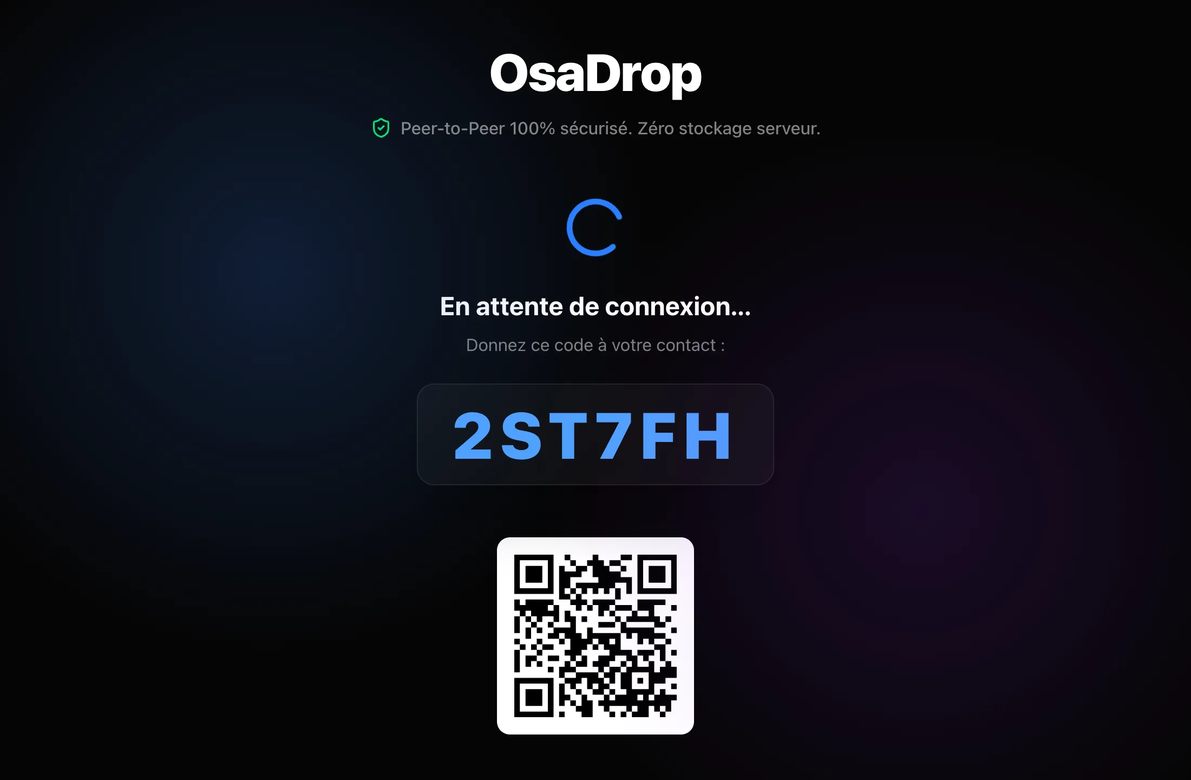
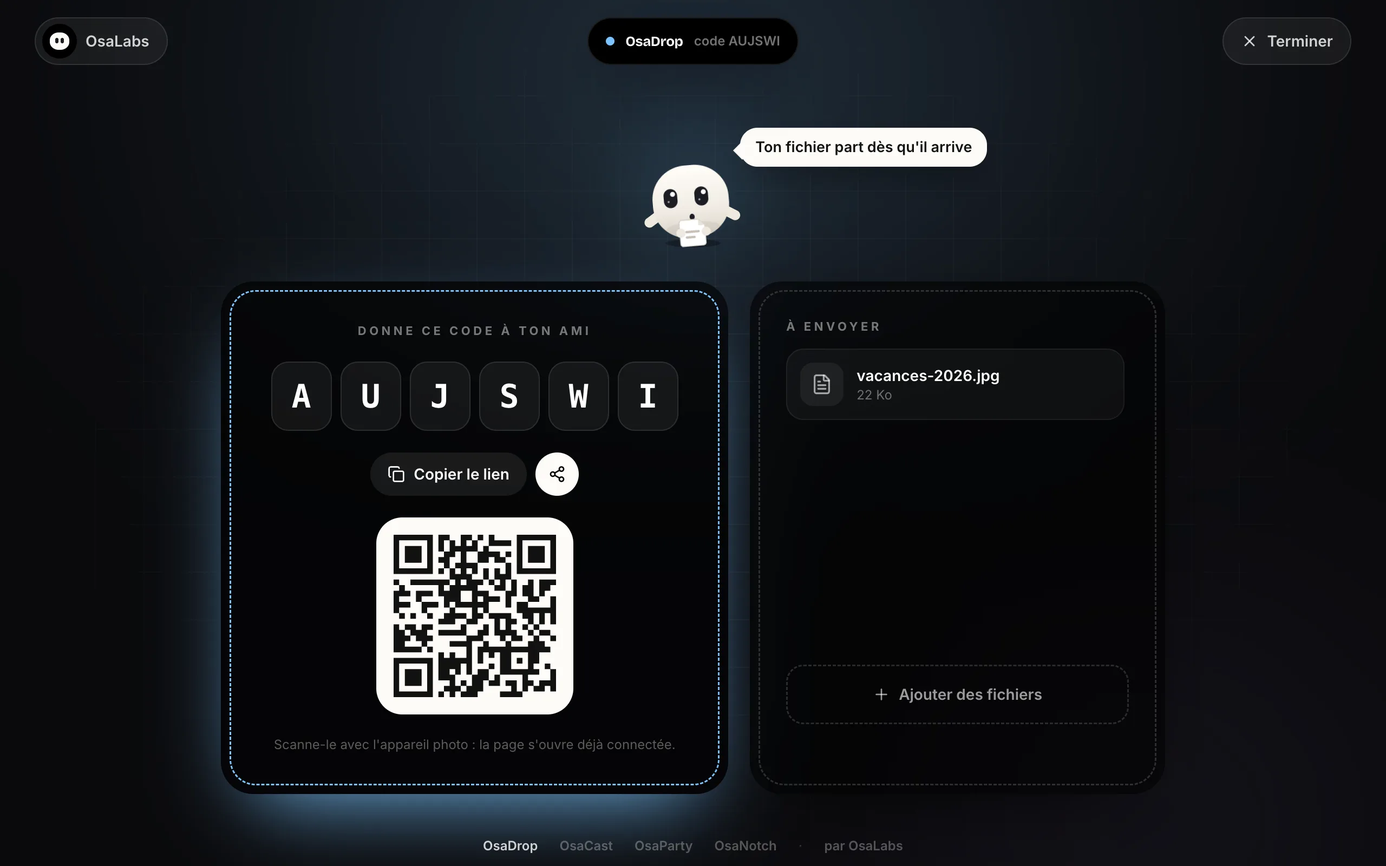
fix: captures et textes à jour après le redesign d'OsaParty, OsaDrop et OsaCast
- nouvelles captures (accueil, écran avec code, salon, mobile)
- OsaDrop : plusieurs fichiers, lien de partage, codes à 6 caractères aussi dans OsaNotch
- OsaCast : relais TURN, image dans l'image, 30 images/s
- journaux de bord complétés jusqu'au 11 octobre

diff --git a/projets/osadrop/index.html b/projets/osadrop/index.html
@@ -4,12 +4,12 @@
     <meta charset="UTF-8" />
     <meta name="viewport" content="width=device-width, initial-scale=1.0" />
     <title>OsaDrop · Étude de cas · Yanis</title>
-    <meta name="description" content="OsaDrop envoie un fichier d'un appareil à l'autre avec un simple code à 6 caractères ou un QR code. Le fichier va directement d'un navigateur à l'autre : i" />
+    <meta name="description" content="OsaDrop envoie des fichiers d'un appareil à l'autre avec un simple code à 6 caractères, un lien ou un QR code. Les fichiers vont directement d'un navigateu" />
     <meta name="theme-color" content="#ecf4ff" />
     <link rel="canonical" href="https://yanis.pro/projets/osadrop/" />
     <meta property="og:type" content="article" />
     <meta property="og:title" content="OsaDrop · Un code, un fichier, zéro serveur." />
-    <meta property="og:description" content="OsaDrop envoie un fichier d'un appareil à l'autre avec un simple code à 6 caractères ou un QR code. Le fichier va directement d'un navigateur à l'autre : i" />
+    <meta property="og:description" content="OsaDrop envoie des fichiers d'un appareil à l'autre avec un simple code à 6 caractères, un lien ou un QR code. Les fichiers vont directement d'un navigateu" />
     <meta property="og:url" content="https://yanis.pro/projets/osadrop/" />
     <meta property="og:image" content="https://yanis.pro/media/osadrop/code.webp" />
     <script>(function(){var t;try{t=localStorage.getItem('theme')}catch(e){}var d=t?t==='dark':matchMedia('(prefers-color-scheme: dark)').matches;document.documentElement.classList.toggle('dark',d)})()</script>
@@ -50,7 +50,7 @@
             <p class="eyebrow"><span class="dot" style="--c:#93c5fd"></span>Transfert de fichiers · WebRTC</p>
             <h1 class="cs-title"><span style="view-transition-name: t-osadrop">OsaDrop</span></h1>
             <p class="cs-tagline">Un code, un fichier, <em>zéro serveur.</em></p>
-            <p class="lead">OsaDrop envoie un fichier d'un appareil à l'autre avec un simple code à 6 caractères ou un QR code. Le fichier va directement d'un navigateur à l'autre : il ne passe jamais par un serveur et n'est stocké nulle part.</p>
+            <p class="lead">OsaDrop envoie des fichiers d'un appareil à l'autre avec un simple code à 6 caractères, un lien ou un QR code. Les fichiers vont directement d'un navigateur à l'autre : ils ne passent jamais par un serveur et ne sont stockés nulle part.</p>
             <div class="btn-row"><a class="btn btn-dark" href="https://osadrop.osalabs.fr" target="_blank" rel="noopener">Ouvrir OsaDrop <span aria-hidden="true">↗</span></a><a class="btn" href="https://github.com/osayanis/osadrop" target="_blank" rel="noopener">Voir le code <span aria-hidden="true">↗</span></a></div>
           </div>
           <div class="cs-cap" aria-hidden="true">
@@ -59,7 +59,7 @@
         </div>
         <dl class="cs-meta">
           <div><dt>Rôle</dt><dd>Conception et développement</dd></div>
-          <div><dt>Période</dt><dd>5 → 9 octobre 2026</dd></div>
+          <div><dt>Période</dt><dd>5 → 11 octobre 2026</dd></div>
           <div><dt>Statut</dt><dd>En ligne</dd></div>
           <div class="cs-meta-stack"><dt>Stack</dt><dd><span>WebRTC</span><span>Next.js</span><span>React</span><span>TypeScript</span><span>Socket.io</span><span>Nginx</span><span>PM2</span></dd></div>
         </dl>
@@ -82,7 +82,7 @@
       <!-- VISUELS -->
       <section class="cs-section cs-visuals">
         <div class="cs-head reveal"><p class="eyebrow"><span class="num">02</span>En images</p><h2>À quoi ça <em>ressemble.</em></h2></div>
-        <div class="vis-grid vis-grid-mixed"><figure class="vis vis-browser wide reveal"><div class="frame-browser"><div class="fb-bar"><i></i><i></i><i></i><span>osadrop.osalabs.fr</span></div><img src="/media/osadrop/code.webp" alt="OsaDrop affiche un code et un QR code" loading="lazy" decoding="async"></div><figcaption>L'expéditeur reçoit un code et un QR code à partager.</figcaption></figure><figure class="vis vis-browser reveal"><div class="frame-browser"><div class="fb-bar"><i></i><i></i><i></i><span>osadrop.osalabs.fr</span></div><img src="/media/osadrop/landing.webp" alt="Accueil d'OsaDrop" loading="lazy" decoding="async"></div><figcaption>Envoyer ou recevoir, sur un seul écran.</figcaption></figure><figure class="vis vis-phone reveal"><div class="frame-phone"><span class="fp-notch"></span><img src="/media/osadrop/mobile.webp" alt="OsaDrop sur mobile" loading="lazy" decoding="async"></div><figcaption>Côté téléphone, on scanne le QR code.</figcaption></figure></div>
+        <div class="vis-grid vis-grid-mixed"><figure class="vis vis-browser wide reveal"><div class="frame-browser"><div class="fb-bar"><i></i><i></i><i></i><span>osadrop.osalabs.fr</span></div><img src="/media/osadrop/code.webp" alt="OsaDrop affiche un code à 6 caractères, un QR code et la liste des fichiers à envoyer" loading="lazy" decoding="async"></div><figcaption>Le fichier est choisi : le code, le lien et le QR code sont prêts. On peut encore en ajouter d'autres.</figcaption></figure><figure class="vis vis-browser reveal"><div class="frame-browser"><div class="fb-bar"><i></i><i></i><i></i><span>osadrop.osalabs.fr</span></div><img src="/media/osadrop/landing.webp" alt="Accueil d'OsaDrop avec la mascotte" loading="lazy" decoding="async"></div><figcaption>La nouvelle interface : la mascotte, et deux choix, envoyer ou recevoir.</figcaption></figure><figure class="vis vis-phone reveal"><div class="frame-phone"><span class="fp-notch"></span><img src="/media/osadrop/mobile.webp" alt="OsaDrop sur mobile" loading="lazy" decoding="async"></div><figcaption>Sur téléphone, le QR code ouvre la page déjà connectée.</figcaption></figure></div>
       </section>
 
       <!-- FONCTIONNEMENT -->
@@ -116,7 +116,7 @@
     </g>
   </svg></div>
         <ol class="cs-steps">
-          <li class="reveal" style="--d:0s"><span class="step-key" aria-hidden="true">1</span><div><h3>Un salon à deux</h3><p>L'expéditeur génère un code. Le serveur Socket.io crée un salon qui n'accepte que deux appareils.</p></div></li><li class="reveal" style="--d:0.06s"><span class="step-key" aria-hidden="true">2</span><div><h3>La signalisation</h3><p>Les deux navigateurs échangent leur offre, leur réponse SDP et leurs candidats ICE via le serveur. Un serveur STUN les aide à se trouver.</p></div></li><li class="reveal" style="--d:0.12s"><span class="step-key" aria-hidden="true">3</span><div><h3>Le canal direct</h3><p>Un DataChannel WebRTC s'ouvre entre eux, chiffré par défaut. Le serveur n'est plus utilisé.</p></div></li><li class="reveal" style="--d:0.18s"><span class="step-key" aria-hidden="true">4</span><div><h3>Envoi par morceaux</h3><p>Le fichier est découpé en morceaux de 64 Ko. Si plus de 1 Mo attend dans le tampon, l'envoi fait une pause jusqu'à ce qu'il se vide.</p></div></li><li class="reveal" style="--d:0.24s"><span class="step-key" aria-hidden="true">5</span><div><h3>Reconstitution</h3><p>Le destinataire assemble les morceaux, suit la progression, puis le fichier se télécharge tout seul.</p></div></li>
+          <li class="reveal" style="--d:0s"><span class="step-key" aria-hidden="true">1</span><div><h3>Un salon à deux</h3><p>L'expéditeur choisit un ou plusieurs fichiers et reçoit un code, un lien et un QR code. Le serveur Socket.io crée un salon qui n'accepte que deux appareils.</p></div></li><li class="reveal" style="--d:0.06s"><span class="step-key" aria-hidden="true">2</span><div><h3>La signalisation</h3><p>Les deux navigateurs échangent leur offre, leur réponse SDP et leurs candidats ICE via le serveur. Un serveur STUN les aide à se trouver.</p></div></li><li class="reveal" style="--d:0.12s"><span class="step-key" aria-hidden="true">3</span><div><h3>Le canal direct</h3><p>Un DataChannel WebRTC s'ouvre entre eux, chiffré par défaut. Le serveur n'est plus utilisé.</p></div></li><li class="reveal" style="--d:0.18s"><span class="step-key" aria-hidden="true">4</span><div><h3>Envoi par morceaux</h3><p>Le fichier est découpé en morceaux de 64 Ko. Si plus de 1 Mo attend dans le tampon, l'envoi fait une pause jusqu'à ce qu'il se vide.</p></div></li><li class="reveal" style="--d:0.24s"><span class="step-key" aria-hidden="true">5</span><div><h3>Reconstitution</h3><p>Le destinataire assemble les morceaux, suit la progression, puis le fichier se télécharge tout seul.</p></div></li>
         </ol>
       </section>
 
@@ -150,7 +150,7 @@
       <section class="cs-section cs-journal">
         <div class="cs-head reveal"><p class="eyebrow"><span class="num">⏱</span>Journal de bord</p><h2>Comment c'est <em>arrivé.</em></h2></div>
         <ol class="journal">
-          <li class="reveal"><time>5 oct · 08h16</time><span class="j-dot" aria-hidden="true"></span><div><h3>Première implémentation WebRTC</h3><p>Salon, signalisation et DataChannel.</p></div></li><li class="reveal"><time>5 oct · 08h26</time><span class="j-dot" aria-hidden="true"></span><div><h3>Quatre correctifs en 20 minutes</h3><p>Closures périmées, courses entre états, débordement de la file.</p></div></li><li class="reveal"><time>5 oct · 16h13</time><span class="j-dot" aria-hidden="true"></span><div><h3>Transfert robuste</h3><p>Délai de garde sur le flux et scanner de QR code.</p></div></li><li class="reveal"><time>8 oct · 09h06</time><span class="j-dot" aria-hidden="true"></span><div><h3>Pont OsaNotch</h3><p>Une page qui expose le même moteur à l'app macOS.</p></div></li><li class="reveal"><time>9 oct · 11h55</time><span class="j-dot" aria-hidden="true"></span><div><h3>Documentation</h3><p>README complet avec fonctionnement, déploiement et limites.</p></div></li>
+          <li class="reveal"><time>5 oct · 08h16</time><span class="j-dot" aria-hidden="true"></span><div><h3>Première implémentation WebRTC</h3><p>Salon, signalisation et DataChannel.</p></div></li><li class="reveal"><time>5 oct · 08h26</time><span class="j-dot" aria-hidden="true"></span><div><h3>Quatre correctifs en 20 minutes</h3><p>Closures périmées, courses entre états, débordement de la file.</p></div></li><li class="reveal"><time>5 oct · 16h13</time><span class="j-dot" aria-hidden="true"></span><div><h3>Transfert robuste</h3><p>Délai de garde sur le flux et scanner de QR code.</p></div></li><li class="reveal"><time>8 oct · 09h06</time><span class="j-dot" aria-hidden="true"></span><div><h3>Pont OsaNotch</h3><p>Une page qui expose le même moteur à l'app macOS.</p></div></li><li class="reveal"><time>9 oct · 11h55</time><span class="j-dot" aria-hidden="true"></span><div><h3>Documentation</h3><p>README complet avec fonctionnement, déploiement et limites.</p></div></li><li class="reveal"><time>9 oct · 15h16</time><span class="j-dot" aria-hidden="true"></span><div><h3>Nouvelle interface</h3><p>Mascotte vivante, plusieurs fichiers à la fois, lien de partage et QR code qui ouvre la page déjà connectée.</p></div></li><li class="reveal"><time>11 oct · 15h22</time><span class="j-dot" aria-hidden="true"></span><div><h3>Les mêmes codes partout</h3><p>OsaNotch utilise aussi les codes à 6 caractères : un envoi depuis le site arrive dans le notch.</p></div></li>
         </ol>
       </section>
 
@@ -162,7 +162,7 @@
             <h2>La suite <em>du projet.</em></h2>
             
           </div>
-          <ul><li>Ajouter un serveur TURN pour les réseaux qui bloquent les connexions directes.</li><li>Écrire le fichier en flux sur le disque pour ne plus dépendre de la mémoire du destinataire.</li><li>Envoyer plusieurs fichiers d'un coup et reprendre un transfert interrompu.</li></ul>
+          <ul><li>Ajouter un serveur TURN pour les réseaux qui bloquent les connexions directes.</li><li>Écrire le fichier en flux sur le disque pour ne plus dépendre de la mémoire du destinataire.</li><li>Reprendre un transfert interrompu sans tout renvoyer.</li></ul>
         </div>
       </section>
 

diff --git a/src/projects.js b/src/projects.js
@@ -15,7 +15,7 @@ export const projects = [
     summary: "OsaNotch transforme l'encoche du MacBook en petite île dynamique. Au survol, elle s'ouvre avec une animation à ressort et regroupe la musique et ses paroles, une étagère de fichiers, les réglages système et toutes les apps OsaLabs. Au centre, une mascotte qui suit ton curseur des yeux.",
     meta: {
       role: 'Conception, design et développement',
-      period: '7 → 9 octobre 2026',
+      period: '7 → 11 octobre 2026',
       status: 'Disponible en .dmg, mises à jour automatiques',
     },
     stack: ['Swift', 'SwiftUI', 'AppKit', 'WebKit', 'IOKit', 'EventKit', 'Accessibility API'],
@@ -24,7 +24,7 @@ export const projects = [
       { label: 'Voir le code', url: 'https://github.com/osayanis/osanotch-native' },
     ],
     stats: [
-      { n: '44', label: 'commits en 3 jours' },
+      { n: '45', label: 'commits en 5 jours' },
       { n: '4 379', label: 'lignes de Swift' },
       { n: '23', label: 'fichiers source' },
       { n: '2', label: 'versions : Electron, puis natif' },
@@ -106,6 +106,7 @@ export const projects = [
       { d: '8 oct · 21h58', t: 'Mises à jour automatiques', x: 'L\'app lit un manifeste sur mon serveur et se met à jour en un clic.' },
       { d: '9 oct · 08h53', t: 'Étagère & installateur', x: 'Presse-papier de fichiers, mode cinéma OsaCast, icône et DMG.' },
       { d: '9 oct · 14h09', t: 'Pont OsaParty', x: 'Le notch envoie la position de lecture au salon web pour synchroniser les paroles.' },
+      { d: '11 oct · 15h22', t: 'OsaDrop aligné sur le site', x: 'Codes à 6 caractères dans le notch : un fichier envoyé depuis le site arrive enfin dans le notch.' },
     ],
     next: [
       "Notariser l'app auprès d'Apple pour supprimer le « clic droit → Ouvrir » au premier lancement.",
@@ -150,7 +151,7 @@ export const projects = [
     },
     visuals: [
       { type: 'browser', src: '/media/osaparty/room.webp', url: 'osaparty.osalabs.fr/room', alt: "Un salon OsaParty prêt, en attente d'un Mac", caption: "Un salon tout juste créé : la mascotte attend qu'un Mac diffuse.", wide: true },
-      { type: 'browser', src: '/media/osaparty/landing.webp', url: 'osaparty.osalabs.fr', alt: "Page d'accueil d'OsaParty", caption: 'Créer ou rejoindre un salon, en deux clics.' },
+      { type: 'browser', src: '/media/osaparty/landing.webp', url: 'osaparty.osalabs.fr', alt: "Page d'accueil d'OsaParty", caption: 'Le nouvel accueil : un pseudo, puis créer un salon ou rejoindre avec un code.' },
       { type: 'phone', src: '/media/osaparty/mobile.webp', alt: 'OsaParty sur mobile', caption: "Pensé pour rejoindre depuis un téléphone." },
     ],
     how: {
@@ -220,6 +221,7 @@ export const projects = [
       { d: '2 oct · 10h47', t: "Contrôles de l'hôte", x: 'Verrouiller le salon, exclure, exporter la playlist.' },
       { d: '5 oct · 08h54', t: 'ListenParty devient OsaParty', x: "Le projet rejoint l'écosystème OsaLabs." },
       { d: '9 oct · 14h09', t: 'Salon refait', x: 'Nouvelle interface, et OsaNotch comme pont natif.' },
+      { d: '9 oct · 15h16', t: 'Nouvel accueil', x: 'Page de création refaite avec la mascotte, comme OsaDrop et OsaCast.' },
     ],
     next: [
       'Un mode « DJ tournant » où chaque invité ajoute un titre à son tour.',
@@ -238,10 +240,10 @@ export const projects = [
     soft: '#ecf4ff',
     kicker: 'Transfert de fichiers · WebRTC',
     tagline: 'Un code, un fichier, <em>zéro serveur.</em>',
-    summary: "OsaDrop envoie un fichier d'un appareil à l'autre avec un simple code à 6 caractères ou un QR code. Le fichier va directement d'un navigateur à l'autre : il ne passe jamais par un serveur et n'est stocké nulle part.",
+    summary: "OsaDrop envoie des fichiers d'un appareil à l'autre avec un simple code à 6 caractères, un lien ou un QR code. Les fichiers vont directement d'un navigateur à l'autre : ils ne passent jamais par un serveur et ne sont stockés nulle part.",
     meta: {
       role: 'Conception et développement',
-      period: '5 → 9 octobre 2026',
+      period: '5 → 11 octobre 2026',
       status: 'En ligne',
     },
     stack: ['WebRTC', 'Next.js', 'React', 'TypeScript', 'Socket.io', 'Nginx', 'PM2'],
@@ -263,14 +265,14 @@ export const projects = [
       ],
     },
     visuals: [
-      { type: 'browser', src: '/media/osadrop/code.webp', url: 'osadrop.osalabs.fr', alt: 'OsaDrop affiche un code et un QR code', caption: "L'expéditeur reçoit un code et un QR code à partager.", wide: true },
-      { type: 'browser', src: '/media/osadrop/landing.webp', url: 'osadrop.osalabs.fr', alt: "Accueil d'OsaDrop", caption: 'Envoyer ou recevoir, sur un seul écran.' },
-      { type: 'phone', src: '/media/osadrop/mobile.webp', alt: 'OsaDrop sur mobile', caption: 'Côté téléphone, on scanne le QR code.' },
+      { type: 'browser', src: '/media/osadrop/code.webp', url: 'osadrop.osalabs.fr', alt: 'OsaDrop affiche un code à 6 caractères, un QR code et la liste des fichiers à envoyer', caption: "Le fichier est choisi : le code, le lien et le QR code sont prêts. On peut encore en ajouter d'autres.", wide: true },
+      { type: 'browser', src: '/media/osadrop/landing.webp', url: 'osadrop.osalabs.fr', alt: "Accueil d'OsaDrop avec la mascotte", caption: 'La nouvelle interface : la mascotte, et deux choix, envoyer ou recevoir.' },
+      { type: 'phone', src: '/media/osadrop/mobile.webp', alt: 'OsaDrop sur mobile', caption: 'Sur téléphone, le QR code ouvre la page déjà connectée.' },
     ],
     how: {
       intro: 'Deux phases : une courte présentation par le serveur, puis une conversation directe entre les deux appareils.',
       steps: [
-        { t: 'Un salon à deux', d: "L'expéditeur génère un code. Le serveur Socket.io crée un salon qui n'accepte que deux appareils." },
+        { t: 'Un salon à deux', d: "L'expéditeur choisit un ou plusieurs fichiers et reçoit un code, un lien et un QR code. Le serveur Socket.io crée un salon qui n'accepte que deux appareils." },
         { t: 'La signalisation', d: "Les deux navigateurs échangent leur offre, leur réponse SDP et leurs candidats ICE via le serveur. Un serveur STUN les aide à se trouver." },
         { t: 'Le canal direct', d: "Un DataChannel WebRTC s'ouvre entre eux, chiffré par défaut. Le serveur n'est plus utilisé." },
         { t: 'Envoi par morceaux', d: "Le fichier est découpé en morceaux de 64 Ko. Si plus de 1 Mo attend dans le tampon, l'envoi fait une pause jusqu'à ce qu'il se vide." },
@@ -321,11 +323,13 @@ export const projects = [
       { d: '5 oct · 16h13', t: 'Transfert robuste', x: 'Délai de garde sur le flux et scanner de QR code.' },
       { d: '8 oct · 09h06', t: 'Pont OsaNotch', x: "Une page qui expose le même moteur à l'app macOS." },
       { d: '9 oct · 11h55', t: 'Documentation', x: 'README complet avec fonctionnement, déploiement et limites.' },
+      { d: '9 oct · 15h16', t: 'Nouvelle interface', x: 'Mascotte vivante, plusieurs fichiers à la fois, lien de partage et QR code qui ouvre la page déjà connectée.' },
+      { d: '11 oct · 15h22', t: 'Les mêmes codes partout', x: 'OsaNotch utilise aussi les codes à 6 caractères : un envoi depuis le site arrive dans le notch.' },
     ],
     next: [
       'Ajouter un serveur TURN pour les réseaux qui bloquent les connexions directes.',
       "Écrire le fichier en flux sur le disque pour ne plus dépendre de la mémoire du destinataire.",
-      "Envoyer plusieurs fichiers d'un coup et reprendre un transfert interrompu.",
+      'Reprendre un transfert interrompu sans tout renvoyer.',
     ],
   },
 
@@ -345,12 +349,12 @@ export const projects = [
       period: '5 → 8 octobre 2026',
       status: 'En ligne',
     },
-    stack: ['WebRTC', 'getDisplayMedia', 'Next.js', 'React', 'Socket.io'],
+    stack: ['WebRTC', 'getDisplayMedia', 'TURN', 'Next.js', 'React', 'Socket.io'],
     links: [{ label: 'Ouvrir OsaCast', url: 'https://osacast.osalabs.fr', primary: true }],
     stats: [
       { n: '770', label: 'lignes de code' },
       { n: '1', label: 'clic pour diffuser' },
-      { n: '2', label: 'formats gérés : portrait et paysage' },
+      { n: '30', label: 'images par seconde' },
       { n: '0', label: 'logiciel à installer' },
     ],
     problem: {
@@ -361,7 +365,8 @@ export const projects = [
       ],
     },
     visuals: [
-      { type: 'browser', src: '/media/osacast/landing.webp', url: 'osacast.osalabs.fr', alt: "Accueil d'OsaCast", caption: 'Créer un cast ou en rejoindre un, par code ou QR code.', wide: true },
+      { type: 'browser', src: '/media/osacast/landing.webp', url: 'osacast.osalabs.fr', alt: "Accueil d'OsaCast avec la mascotte", caption: 'Diffuser son écran ou regarder celui de quelqu\'un, avec un code à 6 caractères.', wide: true },
+      { type: 'phone', src: '/media/osacast/mobile.webp', alt: 'OsaCast sur mobile', caption: 'Sur téléphone, on regarde un écran partagé en plein écran.' },
     ],
     how: {
       intro: "La même poignée de main WebRTC qu'OsaDrop, mais pour de la vidéo au lieu de données.",
@@ -369,7 +374,8 @@ export const projects = [
         { t: "Capture de l'écran", d: "Le diffuseur choisit un écran, une fenêtre ou un onglet avec <code>getDisplayMedia</code>, son compris." },
         { t: 'Un code de session', d: 'Le serveur crée une session, et le spectateur la rejoint par code ou QR code.' },
         { t: 'La poignée de main', d: 'Offre, réponse et candidats ICE transitent par Socket.io.' },
-        { t: 'Le flux direct', d: "La vidéo part en pair-à-pair. Le lecteur s'adapte au format du flux, portrait ou paysage, et passe en plein écran." },
+        { t: 'Le flux direct', d: "La vidéo part en pair-à-pair, à 30 images par seconde. Si le réseau bloque la connexion directe, un serveur relais TURN prend le relais." },
+        { t: 'Regarder confortablement', d: "Le lecteur suit le format du flux (portrait ou paysage), passe en plein écran ou en image dans l'image pour continuer à travailler à côté." },
       ],
       diagram: {
         w: 820, h: 300,
@@ -408,6 +414,7 @@ export const projects = [
       { d: '5 oct · 16h14', t: 'Version complète', x: 'Socket.io, WebRTC robuste et interface en verre dépoli.' },
       { d: '5 oct · 16h37', t: 'Portrait et paysage', x: 'Le lecteur suit le ratio du flux.' },
       { d: '8 oct · 14h18', t: 'Pont OsaNotch', x: "Le notch peut diffuser et regarder avec le même moteur." },
+      { d: '9 oct · 15h16', t: 'Nouvelle interface', x: "Mascotte vivante, image dans l'image et relais TURN pour les réseaux difficiles." },
     ],
     next: ['Un pointeur partagé pour montrer un endroit précis de l\'écran.', 'Plusieurs spectateurs pour une même diffusion.'],
   },

diff --git a/projets/osacast/index.html b/projets/osacast/index.html
@@ -61,13 +61,13 @@
           <div><dt>Rôle</dt><dd>Conception et développement</dd></div>
           <div><dt>Période</dt><dd>5 → 8 octobre 2026</dd></div>
           <div><dt>Statut</dt><dd>En ligne</dd></div>
-          <div class="cs-meta-stack"><dt>Stack</dt><dd><span>WebRTC</span><span>getDisplayMedia</span><span>Next.js</span><span>React</span><span>Socket.io</span></dd></div>
+          <div class="cs-meta-stack"><dt>Stack</dt><dd><span>WebRTC</span><span>getDisplayMedia</span><span>TURN</span><span>Next.js</span><span>React</span><span>Socket.io</span></dd></div>
         </dl>
       </section>
 
       <!-- CHIFFRES -->
       <section class="cs-stats" aria-label="En chiffres">
-        <div class="cs-stat reveal" style="--d:0s"><b>770</b><span>lignes de code</span></div><div class="cs-stat reveal" style="--d:0.07s"><b>1</b><span>clic pour diffuser</span></div><div class="cs-stat reveal" style="--d:0.14s"><b>2</b><span>formats gérés : portrait et paysage</span></div><div class="cs-stat reveal" style="--d:0.21000000000000002s"><b>0</b><span>logiciel à installer</span></div>
+        <div class="cs-stat reveal" style="--d:0s"><b>770</b><span>lignes de code</span></div><div class="cs-stat reveal" style="--d:0.07s"><b>1</b><span>clic pour diffuser</span></div><div class="cs-stat reveal" style="--d:0.14s"><b>30</b><span>images par seconde</span></div><div class="cs-stat reveal" style="--d:0.21000000000000002s"><b>0</b><span>logiciel à installer</span></div>
       </section>
 
       <!-- POINT DE DÉPART -->
@@ -82,7 +82,7 @@
       <!-- VISUELS -->
       <section class="cs-section cs-visuals">
         <div class="cs-head reveal"><p class="eyebrow"><span class="num">02</span>En images</p><h2>À quoi ça <em>ressemble.</em></h2></div>
-        <div class="vis-grid vis-grid-mixed"><figure class="vis vis-browser wide reveal"><div class="frame-browser"><div class="fb-bar"><i></i><i></i><i></i><span>osacast.osalabs.fr</span></div><img src="/media/osacast/landing.webp" alt="Accueil d'OsaCast" loading="lazy" decoding="async"></div><figcaption>Créer un cast ou en rejoindre un, par code ou QR code.</figcaption></figure></div>
+        <div class="vis-grid vis-grid-mixed"><figure class="vis vis-browser wide reveal"><div class="frame-browser"><div class="fb-bar"><i></i><i></i><i></i><span>osacast.osalabs.fr</span></div><img src="/media/osacast/landing.webp" alt="Accueil d'OsaCast avec la mascotte" loading="lazy" decoding="async"></div><figcaption>Diffuser son écran ou regarder celui de quelqu'un, avec un code à 6 caractères.</figcaption></figure><figure class="vis vis-phone reveal"><div class="frame-phone"><span class="fp-notch"></span><img src="/media/osacast/mobile.webp" alt="OsaCast sur mobile" loading="lazy" decoding="async"></div><figcaption>Sur téléphone, on regarde un écran partagé en plein écran.</figcaption></figure></div>
       </section>
 
       <!-- FONCTIONNEMENT -->
@@ -116,7 +116,7 @@
     </g>
   </svg></div>
         <ol class="cs-steps">
-          <li class="reveal" style="--d:0s"><span class="step-key" aria-hidden="true">1</span><div><h3>Capture de l'écran</h3><p>Le diffuseur choisit un écran, une fenêtre ou un onglet avec <code>getDisplayMedia</code>, son compris.</p></div></li><li class="reveal" style="--d:0.06s"><span class="step-key" aria-hidden="true">2</span><div><h3>Un code de session</h3><p>Le serveur crée une session, et le spectateur la rejoint par code ou QR code.</p></div></li><li class="reveal" style="--d:0.12s"><span class="step-key" aria-hidden="true">3</span><div><h3>La poignée de main</h3><p>Offre, réponse et candidats ICE transitent par Socket.io.</p></div></li><li class="reveal" style="--d:0.18s"><span class="step-key" aria-hidden="true">4</span><div><h3>Le flux direct</h3><p>La vidéo part en pair-à-pair. Le lecteur s'adapte au format du flux, portrait ou paysage, et passe en plein écran.</p></div></li>
+          <li class="reveal" style="--d:0s"><span class="step-key" aria-hidden="true">1</span><div><h3>Capture de l'écran</h3><p>Le diffuseur choisit un écran, une fenêtre ou un onglet avec <code>getDisplayMedia</code>, son compris.</p></div></li><li class="reveal" style="--d:0.06s"><span class="step-key" aria-hidden="true">2</span><div><h3>Un code de session</h3><p>Le serveur crée une session, et le spectateur la rejoint par code ou QR code.</p></div></li><li class="reveal" style="--d:0.12s"><span class="step-key" aria-hidden="true">3</span><div><h3>La poignée de main</h3><p>Offre, réponse et candidats ICE transitent par Socket.io.</p></div></li><li class="reveal" style="--d:0.18s"><span class="step-key" aria-hidden="true">4</span><div><h3>Le flux direct</h3><p>La vidéo part en pair-à-pair, à 30 images par seconde. Si le réseau bloque la connexion directe, un serveur relais TURN prend le relais.</p></div></li><li class="reveal" style="--d:0.24s"><span class="step-key" aria-hidden="true">5</span><div><h3>Regarder confortablement</h3><p>Le lecteur suit le format du flux (portrait ou paysage), passe en plein écran ou en image dans l'image pour continuer à travailler à côté.</p></div></li>
         </ol>
       </section>
 
@@ -146,7 +146,7 @@
       <section class="cs-section cs-journal">
         <div class="cs-head reveal"><p class="eyebrow"><span class="num">⏱</span>Journal de bord</p><h2>Comment c'est <em>arrivé.</em></h2></div>
         <ol class="journal">
-          <li class="reveal"><time>5 oct · 16h14</time><span class="j-dot" aria-hidden="true"></span><div><h3>Version complète</h3><p>Socket.io, WebRTC robuste et interface en verre dépoli.</p></div></li><li class="reveal"><time>5 oct · 16h37</time><span class="j-dot" aria-hidden="true"></span><div><h3>Portrait et paysage</h3><p>Le lecteur suit le ratio du flux.</p></div></li><li class="reveal"><time>8 oct · 14h18</time><span class="j-dot" aria-hidden="true"></span><div><h3>Pont OsaNotch</h3><p>Le notch peut diffuser et regarder avec le même moteur.</p></div></li>
+          <li class="reveal"><time>5 oct · 16h14</time><span class="j-dot" aria-hidden="true"></span><div><h3>Version complète</h3><p>Socket.io, WebRTC robuste et interface en verre dépoli.</p></div></li><li class="reveal"><time>5 oct · 16h37</time><span class="j-dot" aria-hidden="true"></span><div><h3>Portrait et paysage</h3><p>Le lecteur suit le ratio du flux.</p></div></li><li class="reveal"><time>8 oct · 14h18</time><span class="j-dot" aria-hidden="true"></span><div><h3>Pont OsaNotch</h3><p>Le notch peut diffuser et regarder avec le même moteur.</p></div></li><li class="reveal"><time>9 oct · 15h16</time><span class="j-dot" aria-hidden="true"></span><div><h3>Nouvelle interface</h3><p>Mascotte vivante, image dans l'image et relais TURN pour les réseaux difficiles.</p></div></li>
         </ol>
       </section>
 

diff --git a/projets/osanotch/index.html b/projets/osanotch/index.html
@@ -59,7 +59,7 @@
         </div>
         <dl class="cs-meta">
           <div><dt>Rôle</dt><dd>Conception, design et développement</dd></div>
-          <div><dt>Période</dt><dd>7 → 9 octobre 2026</dd></div>
+          <div><dt>Période</dt><dd>7 → 11 octobre 2026</dd></div>
           <div><dt>Statut</dt><dd>Disponible en .dmg, mises à jour automatiques</dd></div>
           <div class="cs-meta-stack"><dt>Stack</dt><dd><span>Swift</span><span>SwiftUI</span><span>AppKit</span><span>WebKit</span><span>IOKit</span><span>EventKit</span><span>Accessibility API</span></dd></div>
         </dl>
@@ -67,7 +67,7 @@
 
       <!-- CHIFFRES -->
       <section class="cs-stats" aria-label="En chiffres">
-        <div class="cs-stat reveal" style="--d:0s"><b>44</b><span>commits en 3 jours</span></div><div class="cs-stat reveal" style="--d:0.07s"><b>4 379</b><span>lignes de Swift</span></div><div class="cs-stat reveal" style="--d:0.14s"><b>23</b><span>fichiers source</span></div><div class="cs-stat reveal" style="--d:0.21000000000000002s"><b>2</b><span>versions : Electron, puis natif</span></div>
+        <div class="cs-stat reveal" style="--d:0s"><b>45</b><span>commits en 5 jours</span></div><div class="cs-stat reveal" style="--d:0.07s"><b>4 379</b><span>lignes de Swift</span></div><div class="cs-stat reveal" style="--d:0.14s"><b>23</b><span>fichiers source</span></div><div class="cs-stat reveal" style="--d:0.21000000000000002s"><b>2</b><span>versions : Electron, puis natif</span></div>
       </section>
 
       <!-- POINT DE DÉPART -->
@@ -164,7 +164,7 @@
       <section class="cs-section cs-journal">
         <div class="cs-head reveal"><p class="eyebrow"><span class="num">⏱</span>Journal de bord</p><h2>Comment c'est <em>arrivé.</em></h2></div>
         <ol class="journal">
-          <li class="reveal"><time>7 oct · 10h09</time><span class="j-dot" aria-hidden="true"></span><div><h3>Prototype Electron</h3><p>Overlay transparent avec de vraies données : musique, pochette, batteries, agenda.</p></div></li><li class="reveal"><time>7 oct · 11h10</time><span class="j-dot" aria-hidden="true"></span><div><h3>La mascotte prend vie</h3><p>Yeux qui suivent le curseur, respiration, clignements, émotions.</p></div></li><li class="reveal"><time>7 oct · 18h34</time><span class="j-dot" aria-hidden="true"></span><div><h3>Réécriture en Swift natif</h3><p>NSPanel dans l'encoche, mascotte dessinée en Canvas SwiftUI.</p></div></li><li class="reveal"><time>8 oct · 08h32</time><span class="j-dot" aria-hidden="true"></span><div><h3>Correctif anti-blocage</h3><p>Échap referme toujours, plus de vol de focus.</p></div></li><li class="reveal"><time>8 oct · 09h05</time><span class="j-dot" aria-hidden="true"></span><div><h3>Moteur OsaDrop unifié</h3><p>Pont WebRTC natif via une WebView qui réutilise le site.</p></div></li><li class="reveal"><time>8 oct · 15h43</time><span class="j-dot" aria-hidden="true"></span><div><h3>HUD volume &amp; luminosité</h3><p>Une barre blanche sous l'encoche, l'affichage natif supprimé.</p></div></li><li class="reveal"><time>8 oct · 16h33</time><span class="j-dot" aria-hidden="true"></span><div><h3>Paroles animées</h3><p>Lecteur compact avec défilement des paroles façon Apple Music.</p></div></li><li class="reveal"><time>8 oct · 21h58</time><span class="j-dot" aria-hidden="true"></span><div><h3>Mises à jour automatiques</h3><p>L'app lit un manifeste sur mon serveur et se met à jour en un clic.</p></div></li><li class="reveal"><time>9 oct · 08h53</time><span class="j-dot" aria-hidden="true"></span><div><h3>Étagère &amp; installateur</h3><p>Presse-papier de fichiers, mode cinéma OsaCast, icône et DMG.</p></div></li><li class="reveal"><time>9 oct · 14h09</time><span class="j-dot" aria-hidden="true"></span><div><h3>Pont OsaParty</h3><p>Le notch envoie la position de lecture au salon web pour synchroniser les paroles.</p></div></li>
+          <li class="reveal"><time>7 oct · 10h09</time><span class="j-dot" aria-hidden="true"></span><div><h3>Prototype Electron</h3><p>Overlay transparent avec de vraies données : musique, pochette, batteries, agenda.</p></div></li><li class="reveal"><time>7 oct · 11h10</time><span class="j-dot" aria-hidden="true"></span><div><h3>La mascotte prend vie</h3><p>Yeux qui suivent le curseur, respiration, clignements, émotions.</p></div></li><li class="reveal"><time>7 oct · 18h34</time><span class="j-dot" aria-hidden="true"></span><div><h3>Réécriture en Swift natif</h3><p>NSPanel dans l'encoche, mascotte dessinée en Canvas SwiftUI.</p></div></li><li class="reveal"><time>8 oct · 08h32</time><span class="j-dot" aria-hidden="true"></span><div><h3>Correctif anti-blocage</h3><p>Échap referme toujours, plus de vol de focus.</p></div></li><li class="reveal"><time>8 oct · 09h05</time><span class="j-dot" aria-hidden="true"></span><div><h3>Moteur OsaDrop unifié</h3><p>Pont WebRTC natif via une WebView qui réutilise le site.</p></div></li><li class="reveal"><time>8 oct · 15h43</time><span class="j-dot" aria-hidden="true"></span><div><h3>HUD volume &amp; luminosité</h3><p>Une barre blanche sous l'encoche, l'affichage natif supprimé.</p></div></li><li class="reveal"><time>8 oct · 16h33</time><span class="j-dot" aria-hidden="true"></span><div><h3>Paroles animées</h3><p>Lecteur compact avec défilement des paroles façon Apple Music.</p></div></li><li class="reveal"><time>8 oct · 21h58</time><span class="j-dot" aria-hidden="true"></span><div><h3>Mises à jour automatiques</h3><p>L'app lit un manifeste sur mon serveur et se met à jour en un clic.</p></div></li><li class="reveal"><time>9 oct · 08h53</time><span class="j-dot" aria-hidden="true"></span><div><h3>Étagère &amp; installateur</h3><p>Presse-papier de fichiers, mode cinéma OsaCast, icône et DMG.</p></div></li><li class="reveal"><time>9 oct · 14h09</time><span class="j-dot" aria-hidden="true"></span><div><h3>Pont OsaParty</h3><p>Le notch envoie la position de lecture au salon web pour synchroniser les paroles.</p></div></li><li class="reveal"><time>11 oct · 15h22</time><span class="j-dot" aria-hidden="true"></span><div><h3>OsaDrop aligné sur le site</h3><p>Codes à 6 caractères dans le notch : un fichier envoyé depuis le site arrive enfin dans le notch.</p></div></li>
         </ol>
       </section>
 

diff --git a/projets/osaparty/index.html b/projets/osaparty/index.html
@@ -82,7 +82,7 @@
       <!-- VISUELS -->
       <section class="cs-section cs-visuals">
         <div class="cs-head reveal"><p class="eyebrow"><span class="num">02</span>En images</p><h2>À quoi ça <em>ressemble.</em></h2></div>
-        <div class="vis-grid vis-grid-mixed"><figure class="vis vis-browser wide reveal"><div class="frame-browser"><div class="fb-bar"><i></i><i></i><i></i><span>osaparty.osalabs.fr/room</span></div><img src="/media/osaparty/room.webp" alt="Un salon OsaParty prêt, en attente d'un Mac" loading="lazy" decoding="async"></div><figcaption>Un salon tout juste créé : la mascotte attend qu'un Mac diffuse.</figcaption></figure><figure class="vis vis-browser reveal"><div class="frame-browser"><div class="fb-bar"><i></i><i></i><i></i><span>osaparty.osalabs.fr</span></div><img src="/media/osaparty/landing.webp" alt="Page d'accueil d'OsaParty" loading="lazy" decoding="async"></div><figcaption>Créer ou rejoindre un salon, en deux clics.</figcaption></figure><figure class="vis vis-phone reveal"><div class="frame-phone"><span class="fp-notch"></span><img src="/media/osaparty/mobile.webp" alt="OsaParty sur mobile" loading="lazy" decoding="async"></div><figcaption>Pensé pour rejoindre depuis un téléphone.</figcaption></figure></div>
+        <div class="vis-grid vis-grid-mixed"><figure class="vis vis-browser wide reveal"><div class="frame-browser"><div class="fb-bar"><i></i><i></i><i></i><span>osaparty.osalabs.fr/room</span></div><img src="/media/osaparty/room.webp" alt="Un salon OsaParty prêt, en attente d'un Mac" loading="lazy" decoding="async"></div><figcaption>Un salon tout juste créé : la mascotte attend qu'un Mac diffuse.</figcaption></figure><figure class="vis vis-browser reveal"><div class="frame-browser"><div class="fb-bar"><i></i><i></i><i></i><span>osaparty.osalabs.fr</span></div><img src="/media/osaparty/landing.webp" alt="Page d'accueil d'OsaParty" loading="lazy" decoding="async"></div><figcaption>Le nouvel accueil : un pseudo, puis créer un salon ou rejoindre avec un code.</figcaption></figure><figure class="vis vis-phone reveal"><div class="frame-phone"><span class="fp-notch"></span><img src="/media/osaparty/mobile.webp" alt="OsaParty sur mobile" loading="lazy" decoding="async"></div><figcaption>Pensé pour rejoindre depuis un téléphone.</figcaption></figure></div>
       </section>
 
       <!-- FONCTIONNEMENT -->
@@ -169,7 +169,7 @@
       <section class="cs-section cs-journal">
         <div class="cs-head reveal"><p class="eyebrow"><span class="num">⏱</span>Journal de bord</p><h2>Comment c'est <em>arrivé.</em></h2></div>
         <ol class="journal">
-          <li class="reveal"><time>1 oct · 11h24</time><span class="j-dot" aria-hidden="true"></span><div><h3>Première version</h3><p>Le site et le Mac Bridge fonctionnent ensemble.</p></div></li><li class="reveal"><time>1 oct · 11h36</time><span class="j-dot" aria-hidden="true"></span><div><h3>Installable</h3><p>Le site devient une PWA, utilisable comme un petit widget.</p></div></li><li class="reveal"><time>1 oct · 11h43</time><span class="j-dot" aria-hidden="true"></span><div><h3>App de barre des menus</h3><p>Le pont devient une vraie app macOS.</p></div></li><li class="reveal"><time>1 oct · 13h41</time><span class="j-dot" aria-hidden="true"></span><div><h3>Grosse mise à jour</h3><p>Chat, paroles, vote pour passer, volume et support de Spotify.</p></div></li><li class="reveal"><time>1 oct · 13h59</time><span class="j-dot" aria-hidden="true"></span><div><h3>Look Apple Music</h3><p>Paroles synchronisées et fonds dynamiques.</p></div></li><li class="reveal"><time>1 oct · 14h03</time><span class="j-dot" aria-hidden="true"></span><div><h3>Blind test &amp; Wrapped</h3><p>Un mode quiz et un récap de soirée.</p></div></li><li class="reveal"><time>2 oct · 10h47</time><span class="j-dot" aria-hidden="true"></span><div><h3>Contrôles de l'hôte</h3><p>Verrouiller le salon, exclure, exporter la playlist.</p></div></li><li class="reveal"><time>5 oct · 08h54</time><span class="j-dot" aria-hidden="true"></span><div><h3>ListenParty devient OsaParty</h3><p>Le projet rejoint l'écosystème OsaLabs.</p></div></li><li class="reveal"><time>9 oct · 14h09</time><span class="j-dot" aria-hidden="true"></span><div><h3>Salon refait</h3><p>Nouvelle interface, et OsaNotch comme pont natif.</p></div></li>
+          <li class="reveal"><time>1 oct · 11h24</time><span class="j-dot" aria-hidden="true"></span><div><h3>Première version</h3><p>Le site et le Mac Bridge fonctionnent ensemble.</p></div></li><li class="reveal"><time>1 oct · 11h36</time><span class="j-dot" aria-hidden="true"></span><div><h3>Installable</h3><p>Le site devient une PWA, utilisable comme un petit widget.</p></div></li><li class="reveal"><time>1 oct · 11h43</time><span class="j-dot" aria-hidden="true"></span><div><h3>App de barre des menus</h3><p>Le pont devient une vraie app macOS.</p></div></li><li class="reveal"><time>1 oct · 13h41</time><span class="j-dot" aria-hidden="true"></span><div><h3>Grosse mise à jour</h3><p>Chat, paroles, vote pour passer, volume et support de Spotify.</p></div></li><li class="reveal"><time>1 oct · 13h59</time><span class="j-dot" aria-hidden="true"></span><div><h3>Look Apple Music</h3><p>Paroles synchronisées et fonds dynamiques.</p></div></li><li class="reveal"><time>1 oct · 14h03</time><span class="j-dot" aria-hidden="true"></span><div><h3>Blind test &amp; Wrapped</h3><p>Un mode quiz et un récap de soirée.</p></div></li><li class="reveal"><time>2 oct · 10h47</time><span class="j-dot" aria-hidden="true"></span><div><h3>Contrôles de l'hôte</h3><p>Verrouiller le salon, exclure, exporter la playlist.</p></div></li><li class="reveal"><time>5 oct · 08h54</time><span class="j-dot" aria-hidden="true"></span><div><h3>ListenParty devient OsaParty</h3><p>Le projet rejoint l'écosystème OsaLabs.</p></div></li><li class="reveal"><time>9 oct · 14h09</time><span class="j-dot" aria-hidden="true"></span><div><h3>Salon refait</h3><p>Nouvelle interface, et OsaNotch comme pont natif.</p></div></li><li class="reveal"><time>9 oct · 15h16</time><span class="j-dot" aria-hidden="true"></span><div><h3>Nouvel accueil</h3><p>Page de création refaite avec la mascotte, comme OsaDrop et OsaCast.</p></div></li>
         </ol>
       </section>
 
